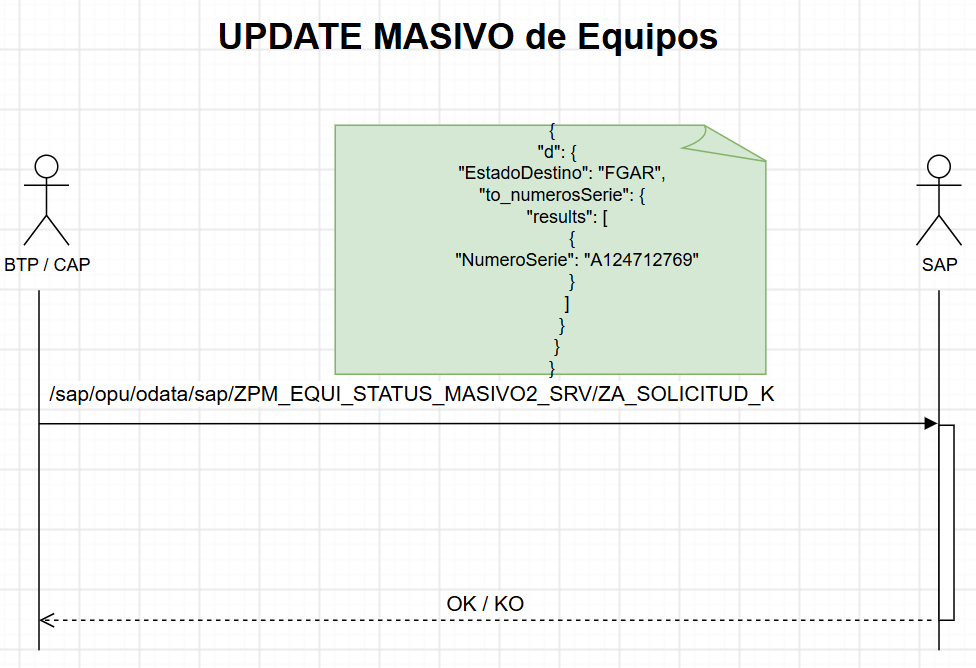
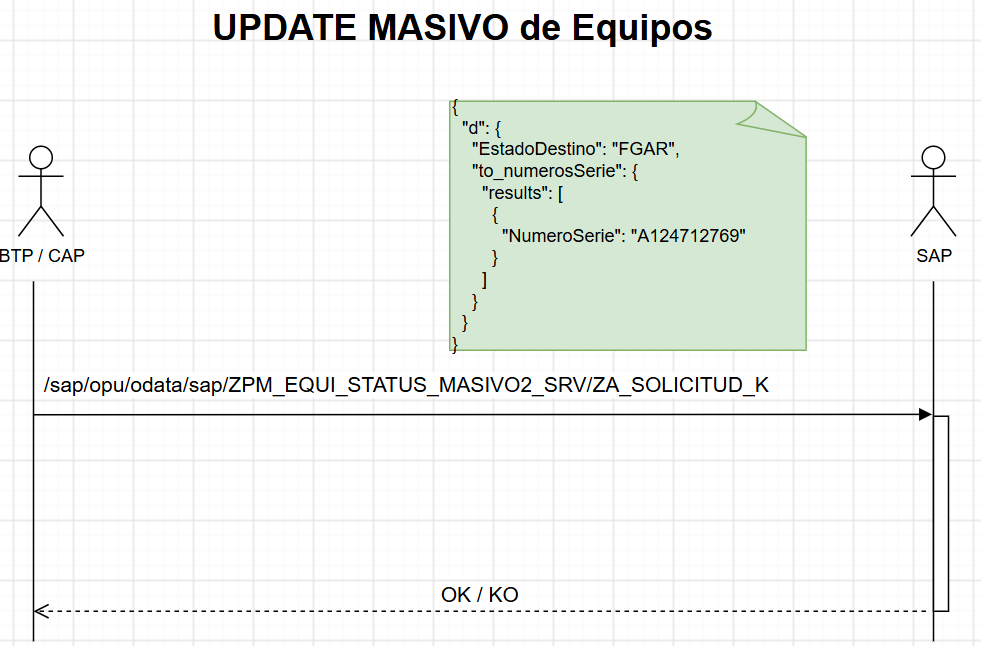
ok

diff --git a/ODATA_V2_UPDATE_MASIVO/otros/zcl_cg_helper_equi.md b/ODATA_V2_UPDATE_MASIVO/otros/zcl_cg_helper_equi.md
@@ -2,18 +2,19 @@
 
 Propiedades
 
-![image](/ODATA_V2_FUNCTION_IMPORT/img/HELPER_1.png)
+![image](/ODATA_V2_UPDATE_MASIVO/img/HELPER_1.png)
 
 Métodos
 
-![image](/ODATA_V2_FUNCTION_IMPORT/img/HELPER_2.png)
+![image](/ODATA_V2_UPDATE_MASIVO/img/HELPER_2.png)
 
 S_CHANGE_USER_STATUS_BY_SERNR
 
-![image](/ODATA_V2_FUNCTION_IMPORT/img/S_CHANGE_USER_STATUS_BY_SERNR.png)
+![image](/ODATA_V2_UPDATE_MASIVO/img/S_CHANGE_MASIVE_USER_STATUS.png)
 
 
 ``` abap
+
 class ZCL_CG_HELPER_EQUI definition
   public
   final
